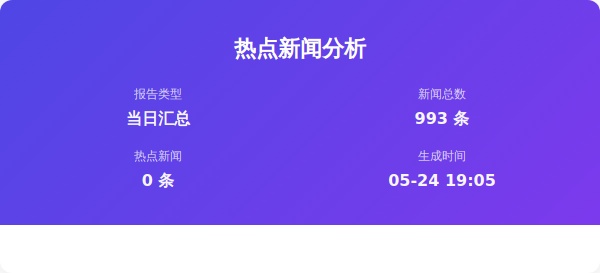
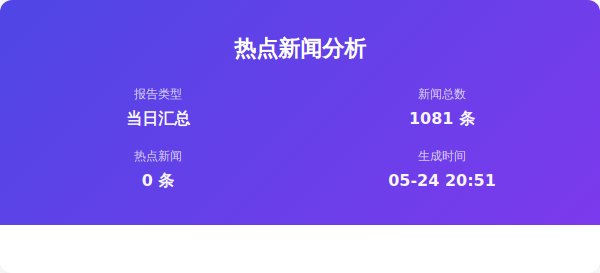
Auto update by GitHub Actions at Sun May 24 20:51:56 CST 2026

Changed region(s): [[0.66, 0.4103, 0.81, 0.4689], [0.72, 0.6447, 0.84, 0.674]]

diff --git a/output/2026年05月24日/html/当日汇总.html b/output/2026年05月24日/html/当日汇总.html
@@ -357,7 +357,7 @@
                     </div>
                     <div class="info-item">
                         <span class="info-label">新闻总数</span>
-                        <span class="info-value">993 条</span>
+                        <span class="info-value">1081 条</span>
                     </div>
                     <div class="info-item">
                         <span class="info-label">热点新闻</span>
@@ -365,7 +365,7 @@
                     </div>
                     <div class="info-item">
                         <span class="info-label">生成时间</span>
-                        <span class="info-value">05-24 19:05</span>
+                        <span class="info-value">05-24 20:51</span>
                     </div>
                 </div>
             </div>